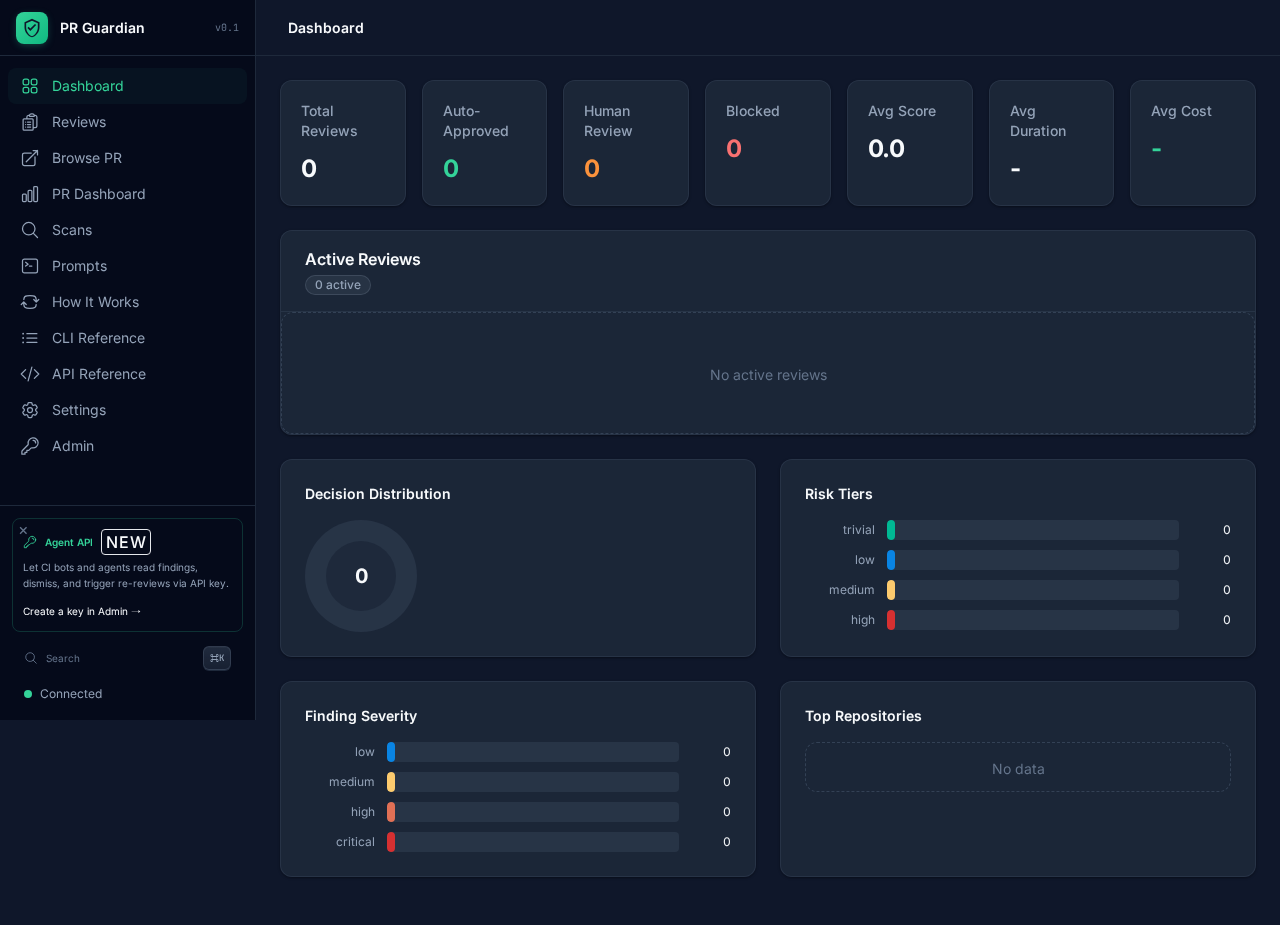
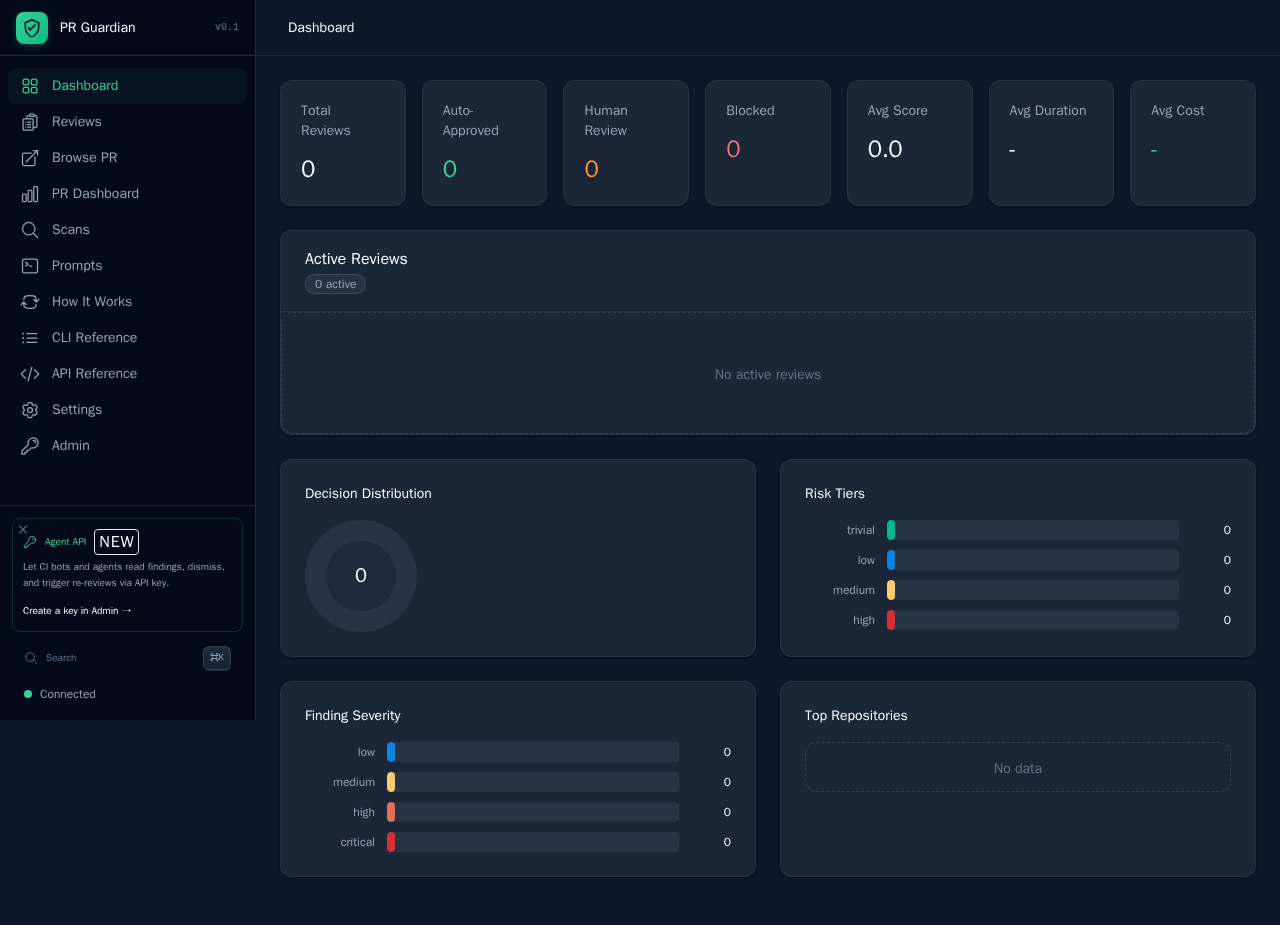
chore: auto-commit updates to root.png, test_capabilities_endpoint.py, test_submit_verdict.py (+2 -0

diff --git a/tests/test_capabilities_endpoint.py b/tests/test_capabilities_endpoint.py
@@ -90,6 +90,7 @@ def _patch_endpoint(monkeypatch, review, *, cluster_result=None, diff_raises=Non
         fake_adapter.fetch_diff = _diff
     fake_adapter.fetch_pr_body_and_commits = _pr_body_and_commits
     monkeypatch.setattr(dash, "create_adapter", lambda _p: fake_adapter)
+    monkeypatch.setattr(dash, "create_github_adapter", AsyncMock(return_value=fake_adapter))
 
     monkeypatch.setattr(dash, "create_llm_client", lambda _config: object())
 

diff --git a/tests/test_submit_verdict.py b/tests/test_submit_verdict.py
@@ -66,6 +66,7 @@ def _patch_endpoint_deps(monkeypatch, fake_review, mock_adapter):
     monkeypatch.setattr(dash.storage, "get_review", _get_review)
     monkeypatch.setattr(dash.storage, "append_review_log_entry", _append)
     monkeypatch.setattr(dash, "create_adapter", lambda _platform: mock_adapter)
+    monkeypatch.setattr(dash, "create_github_adapter", AsyncMock(return_value=mock_adapter))
     return appended
 
 